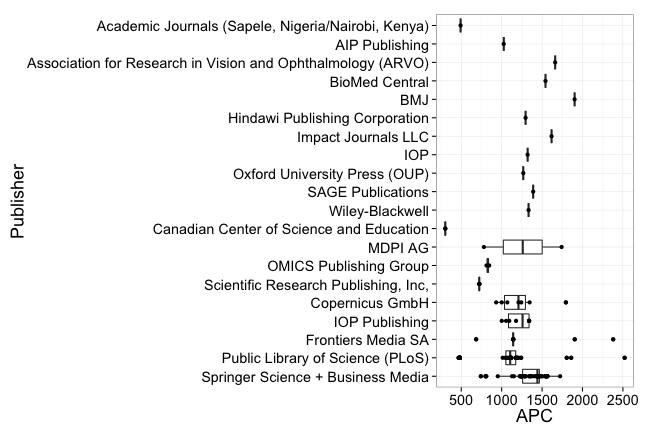
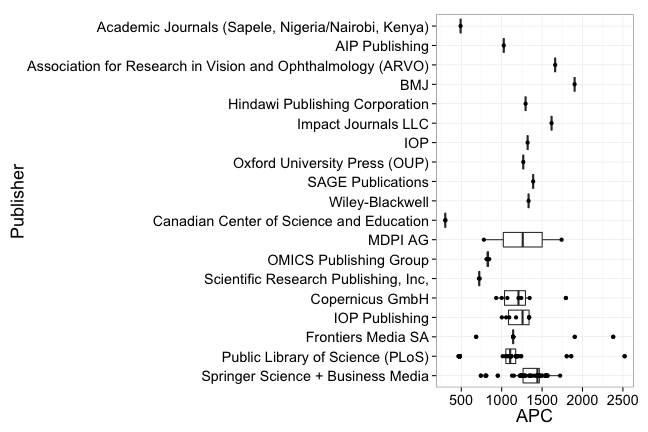
fix unigoe

diff --git a/_posts/2015-03-13-sub.md b/_posts/2015-03-13-sub.md
@@ -27,7 +27,7 @@ The following table shows the payments Göttingen State and University Library h
 
 |                                                            | Articles| Fees paid in EURO| Mean Fee paid|
 |:-----------------------------------------------------------|--------:|-----------------:|-------------:|
-|Springer Science + Business Media                           |       67|             91787|          1370|
+|Springer Science + Business Media                           |       68|             93329|          1372|
 |Public Library of Science (PLoS)                            |       45|             47718|          1060|
 |Frontiers Media SA                                          |       10|             12965|          1297|
 |IOP Publishing                                              |        8|              9685|          1211|
@@ -43,7 +43,6 @@ The following table shows the payments Göttingen State and University Library h
 |Impact Journals LLC                                         |        1|              1617|          1617|
 |Hindawi Publishing Corporation                              |        1|              1296|          1296|
 |BMJ                                                         |        1|              1902|          1902|
-|BioMed Central                                              |        1|              1542|          1542|
 |Association for Research in Vision and Ophthalmology (ARVO) |        1|              1662|          1662|
 |AIP Publishing                                              |        1|              1026|          1026|
 |Academic Journals (Sapele, Nigeria/Nairobi, Kenya)          |        1|               492|           492|
